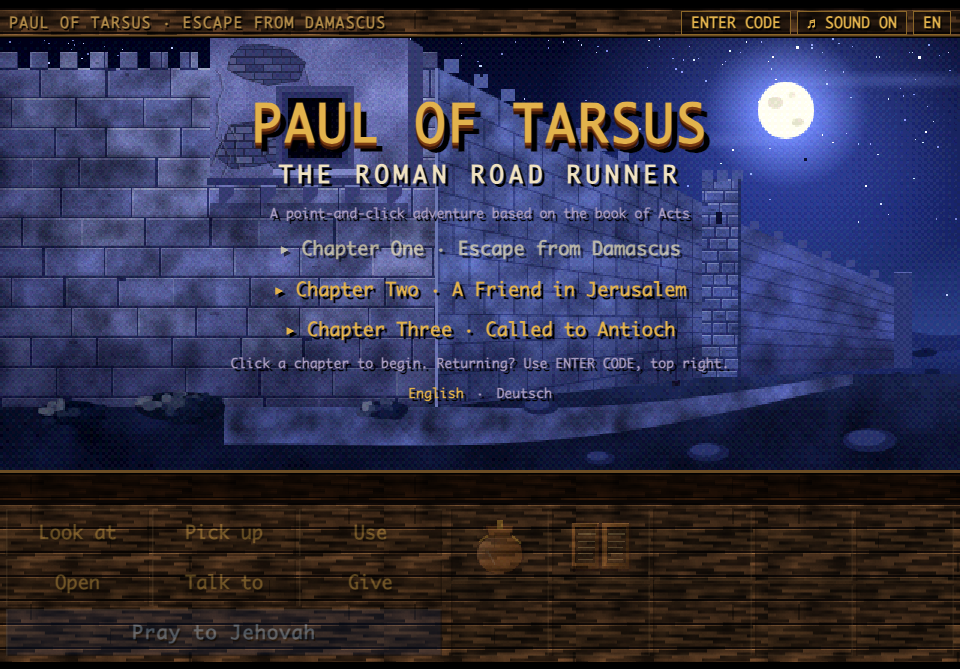
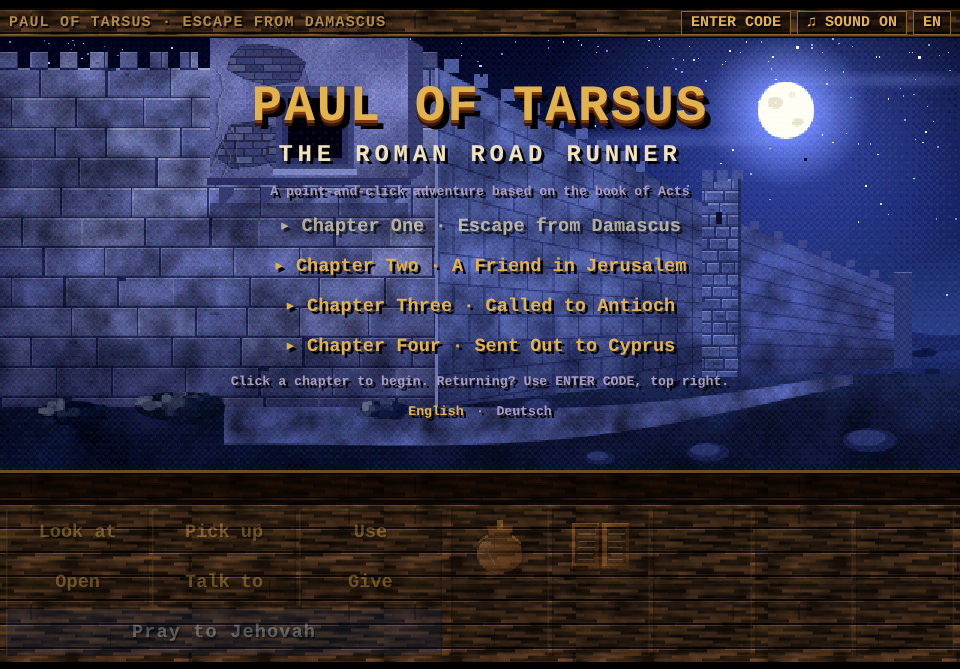
Docs: Chapter Four in the README, with its screenshots
The story and walkthrough of Sent Out to Cyprus, travelling by the map,
the score, what the chapter invents where Acts is silent, and how a hub
chapter is declared. The title screenshot now lists four chapters.

Claude-Session: https://claude.ai/code/session_01K3mgJsrhzNVmrifV5NA6U3

diff --git a/README.md b/README.md
@@ -2,7 +2,7 @@
 
 A browser point-and-click adventure in the style of early-1990s verb-and-inventory adventure games. You play Saul of Tarsus, later known as the apostle Paul, a tentmaker who gets out of tight spots with his trade, his brothers and prayer rather than with force.
 
-There are three chapters so far, in English and German. The game is a small engine in `index.html` plus one level file per chapter in `levels/`, loaded only when that chapter is played. There are no image or audio files: every backdrop, character and icon is painted in code on a canvas, and all music, ambience and sound effects are synthesized with the Web Audio API.
+There are four chapters so far, in English and German. The game is a small engine in `index.html` plus one level file per chapter in `levels/`, loaded only when that chapter is played. There are no image or audio files: every backdrop, character and icon is painted in code on a canvas, and all music, ambience and sound effects are synthesized with the Web Audio API.
 
 ![Title screen](docs/screenshots/title.png)
 
@@ -100,6 +100,42 @@ Three more locations and five new characters, with Barnabas back at Paul's side,
 9. Use the pack bags with the donkey.
 </details>
 
+## Chapter Four: Sent Out to Cyprus
+
+Antioch, about 47 C.E. As the prophets and teachers of the congregation are ministering to Jehovah and fasting, the holy spirit says: "Set aside for me Barnabas and Saul for the work to which I have called them." They lay their hands on them and send them off. With John Mark as their attendant, the two go down to Seleucia and sail to Cyprus, where Barnabas was born. At Salamis they proclaim the word of God in the synagogues of the Jews. Then they go through the whole island as far as Paphos, where the proconsul Sergius Paulus, an intelligent man, calls for them, and the sorcerer Bar-Jesus, also called Elymas, tries to turn him away from the faith (Acts 13:1-12; 4:36).
+
+| | |
+|---|---|
+| ![The quay at Seleucia](docs/screenshots/seleucia.png) | ![The crossing to Cyprus](docs/screenshots/voyage.png) |
+| Seleucia: a ship for Cyprus, and no roof for her deck | The crossing, under the roof a tentmaker sewed |
+| ![The synagogue in Salamis](docs/screenshots/synagogue.png) | ![Before the proconsul in Paphos](docs/screenshots/paphos.png) |
+| Salamis: a stranger is welcome to a seat, not to the platform | Paphos: the proconsul asks, and Elymas objects |
+
+Four more locations and seven new characters, and the first chapter in which the travel map is the way from place to place: the gangplank at Seleucia and the west gate of Salamis open it, and a click on a place goes there.
+
+A merchant ship of those days gave its passengers drinking water and nothing else, so Paul sews a shelter for the deck, with a rope in its edge to lash it to the rail. On the quay sits an old disciple of Salamis whom Saul's persecution once drove out of Jerusalem (Acts 8:1-3; 11:19). He has nothing to say to Saul of Tarsus. Barnabas has to speak for his friend first, and then Saul has to say it himself, without an excuse.
+
+On his own island Barnabas is the one who is known. He asks the presiding officer of a synagogue in Salamis for a hearing, and Paul builds his "word of encouragement" in the right order, beginning with what has just been read: the islands keep waiting for his law (Isaiah 42:4). In Paphos, Elymas raises three objections before the proconsul, and each is answered in its own way: one by Barnabas, one by showing Paul's awl, and one from the Scriptures. Then the account takes its course. What happens to Elymas is told as Acts tells it, and it solves no puzzle. From that hearing on the game calls Saul by his Roman name, Paul, as Acts does from chapter 13, verse 9.
+
+| | |
+|---|---|
+| ![Choosing where to travel](docs/screenshots/travel.png) | ![The talk in the synagogue](docs/screenshots/speech.png) |
+| The gangplank opens the map: Salamis lies a day and a night away | A word of encouragement has an order: do not run ahead of the hearers |
+
+<details>
+<summary>Walkthrough (spoilers)</summary>
+
+1. At Seleucia, talk to Kallias, the shipmaster by the gangplank.
+2. Use the knife on the coil of cord beside the mooring post. Use the awl (or the tarred cord) with the goat-hair cloth.
+3. Switch to Barnabas and talk to the old man by the jars. Tell him that you asked the same question once, and then heard Saul out.
+4. As Paul, talk to the old man, Jair, and say plainly what you did.
+5. Walk up the gangplank, and click Salamis on the map.
+6. In Salamis, open the door of the synagogue. Switch to Barnabas and talk to Zadok: let Saul speak after the reading, and test every word by the scroll.
+7. As Paul, talk to Zadok. Build the talk in this order: the islands keep waiting; the promise to David; the savior from David's offspring, raised up; forgiveness of sins.
+8. Leave by the door and then by the west gate, and click Paphos on the map.
+9. In Paphos, switch to Barnabas and talk to the proconsul. As Paul, give the awl to the proconsul to show it. Then answer with Daniel 2:27, 28.
+</details>
+
 ## Look and sound
 
 The backdrops are painted in the manner of early-1990s VGA adventure games: perspective floors, textured plaster and stone, warm light against cool shadow, a foreground layer that slides past the scene as it scrolls, and a final ordered dither. Rooms are painted at twice the classic 320-pixel resolution. Night scenes and interiors are painted in daylight colors and then multiplied by a light map, so a lamp, a brazier or the moon through a window really lights the room; the same light falls on the characters as they walk through it.
@@ -108,7 +144,9 @@ The characters are sprites in the manner of the same era: placed pixel by pixel 
 
 ![The cast](docs/screenshots/cast.png)
 
-Each chapter ends on a travel map of the eastern Mediterranean, painted the same way: coasts, shallows and mountain ranges, cities as dots, and no grid lines. The road travelled so far is shown, and the chapter's own leg draws itself as a dotted line from city to city, to a short sting on frame drum, harp and ney: Damascus to Jerusalem; Jerusalem to Caesarea and by sea to Tarsus; Tarsus to Antioch, where Paul's missionary journeys would begin. The routes never cross. Where the Scriptures do not say which way he went, the line takes a plausible one: by sea east of Cyprus, and by road round the Gulf of Issus.
+Each chapter ends on a travel map of the eastern Mediterranean, painted the same way: coasts, shallows and mountain ranges, cities as dots, and no grid lines. The road travelled so far is shown, and the chapter's own leg draws itself as a dotted line from city to city, to a short sting on frame drum, harp and ney: Damascus to Jerusalem; Jerusalem to Caesarea and by sea to Tarsus; Tarsus to Antioch, where Paul's missionary journeys would begin. The routes never cross. Where the Scriptures do not say which way he went, the line takes a plausible one: by sea east of Cyprus, by road round the Gulf of Issus, and through the south of Cyprus.
+
+Chapter Four draws the first missionary journey on a map of its own: Antioch to Seleucia, by sea to Salamis, and across the island to Paphos. The earlier roads are left off it, because the sea lane from Caesarea to Tarsus runs between Cyprus and Syria, just where the ship from Seleucia has to pass. In that chapter the map is also how you travel.
 
 ![The travel map at the end of Chapter Three](docs/screenshots/map.png)
 
@@ -119,6 +157,7 @@ Each chapter has its own score, and each room its own sounds:
 | Escape from Damascus | Oud, frame drum and ney in D Hijaz; in the watched street only a drone and a heartbeat remain | Crickets, an owl, the soldier's brazier, night wind at the open window |
 | A Friend in Jerusalem | Lyre and ney in A Dorian; at the harbor a harp rocks in threes like the swell | Birds and a distant market, then waves, gulls and creaking timbers |
 | Called to Antioch | A quick lyre figure, walking bass and reed pipe in G Mixolydian, with claps in the busy street | A tentmakers' row, vine leaves in the courtyard, the fountain and the crowd |
+| Sent Out to Cyprus | A harp in E Aeolian that rocks in three, three and two like a hull on a swell, with a ney at sea and a reed pipe in the harbors; before the proconsul only a drone, a slow drum and a few notes of the lyre | Waves, gulls and creaking timbers, a coppersmith's hammer in the market of Salamis, lamps in the synagogue, a brazier in the proconsul's hall |
 
 ## How to play
 
@@ -130,7 +169,8 @@ Each chapter has its own score, and each room its own sounds:
 | Leave a room at once | Double-click an exit to skip the walk to it |
 | Show what can be clicked | Hold `Tab`: everything in the room gets a dot and its name |
 | Combine things | **Use**, then an inventory item, then another item or something in the scene |
-| Play the other man | In Chapter Three, click **⇄ Barnabas** (or **⇄ Paul**) beside the prayer button, or press `C`. Each man has his own inventory and can stand in a different room; the view follows the one you play. **Give** an item to the other when they share a room to hand it over (**Use** on him only shows it). |
+| Play the other man | In Chapters Three and Four, click **⇄ Barnabas** (or **⇄ Paul**) beside the prayer button, or press `C`. Each man has his own inventory, and in Chapter Three he can stand in a different room; the view follows the one you play. **Give** an item to the other when they share a room to hand it over (**Use** on him only shows it). |
+| Travel | In Chapter Four the way out of a town opens the travel map. Click a place to go there; `Esc` or a right-click stays. A place the story has not reached yet, or one that lies behind, says why not. |
 | Read Paul's notes | Click the **wax tablets** in the inventory (their default verb is **Open**): the people he has met, what is still to be done, and the Scriptures for the chapter. Click or press Space to close them. |
 | Show something to someone | **Give** (or **Use**) an item on a person. Everyone has something to say about everything Paul carries, sometimes a clue. Only what someone actually needs changes hands. |
 | Ask about what you have learned | Once Paul learns something (a frayed basket, a torn sail, a famine), it appears as a new question when he talks to people in that chapter |
@@ -164,7 +204,7 @@ The blue button is the hint system. Paul pauses, bows his head and prays for wis
 
 ### Safe-point codes
 
-The top bar always shows a short code for exactly where you are: six characters in Chapter One, and the same with a leading `2-` in Chapter Two. Chapter Three codes are nine characters (`3-XXX-XXX-XXX`), because they also remember which man you are playing, where each of them stands and who carries what; six-character Chapter Three codes from before still work. Write it down, and enter it later with **ENTER CODE** on the title screen (or the code button during play) to return to the same room with the same inventory and progress. Any moment outside a cutscene is a safe point.
+The top bar always shows a short code for exactly where you are: six characters in Chapter One, and the same with a leading `2-` in Chapter Two. Chapter Three and Chapter Four codes are nine characters (`3-XXX-XXX-XXX`, `4-XXX-XXX-XXX`), because they also remember which man you are playing, where each of them stands and who carries what; six-character Chapter Three codes from before still work. Write it down, and enter it later with **ENTER CODE** on the title screen (or the code button during play) to return to the same room with the same inventory and progress. Any moment outside a cutscene is a safe point.
 
 ![Safe-point code](docs/screenshots/code.png)
 
@@ -172,7 +212,9 @@ The top bar always shows a short code for exactly where you are: six characters 
 
 The game follows the scriptural understanding of Jehovah's Witnesses and the wording of the New World Translation of the Holy Scriptures (Study Edition); the German version quotes the German edition, the *Neue-Welt-Übersetzung der Heiligen Schrift (Studienausgabe)*. Historical details are checked against jw.org and wol.jw.org. Paul is shown as a courageous, observant minister who relies on practical wisdom, cooperation with fellow believers and trust in Jehovah. There are no halos, crosses or mystical effects, and no puzzle is solved by a miracle or by violence.
 
-The events themselves are from the Scriptures. All dialogue is imaginative dramatization, including the words given to Barnabas, Cephas, James, Agabus and Lucius, and so are the supporting characters: Eliab, Naomi, Jesse, the merchant Zakkai and the guard in Chapter One; Mattan, the captain, the fisherman, the doorkeeper and the two Greek-speaking Jews Dositheus and Ariston in Chapter Two; Kleon, Xanthe and Theron in Chapter Three. The Scriptures say nothing of how the relief was packed or counted: those details are invented as well.
+The events themselves are from the Scriptures. All dialogue is imaginative dramatization, including the words given to Barnabas, Cephas, James, Agabus, Lucius, John Mark, Sergius Paulus and Bar-Jesus, and so are the supporting characters: Eliab, Naomi, Jesse, the merchant Zakkai and the guard in Chapter One; Mattan, the captain, the fisherman, the doorkeeper and the two Greek-speaking Jews Dositheus and Ariston in Chapter Two; Kleon, Xanthe and Theron in Chapter Three; the shipmaster Kallias, the old disciple Jair, the presiding officer Zadok and the merchant Philon in Chapter Four. The Scriptures say nothing of how the relief was packed or counted: those details are invented as well.
+
+Chapter Four fills several silences of the account in the same way. Acts does not say where on Cyprus Barnabas was born, what was said in the synagogues of Salamis or how the people there responded, or what Elymas said to turn the proconsul away. The chapter places Barnabas's boyhood in Salamis, keeps the response there small, and gives Elymas three objections of its own. The shelter on the ship's deck rests on what is known of sea travel then: passengers on a merchant ship slept on deck and brought their own food and bedding. The ship has no figurehead, because those commonly showed a god.
 
 This is an independent, non-commercial fan project. It is not produced, endorsed or reviewed by Jehovah's Witnesses or the Watch Tower Bible and Tract Society.
 
@@ -183,13 +225,14 @@ index.html            the engine: layout, paint toolkit, figures, audio sequence
 levels/chapter1.js    Escape from Damascus
 levels/chapter2.js    A Friend in Jerusalem
 levels/chapter3.js    Called to Antioch
+levels/chapter4.js    Sent Out to Cyprus
 shared/tablets.js     Paul's wax tablets, used by every chapter
 shared/map.js         the travel map: the journeys between chapters, and travel for a hub chapter
 lang/de/              the German text: main.js for the engine and shared files, chapterN.js for each chapter
 tools/                headless playtest, and the translation check (strings.mjs)
 ```
 
-A level file holds everything that belongs to one chapter and nothing else does: its music and ambience, its artwork, its cast and items, its rooms with their hotspots and dialog, its cutscenes and its prayer hints. `index.html` keeps only a three-line manifest (`CHAP`: name, file, code salt), and fetches a level with a script tag the first time it is needed, so the game still runs when opened straight from disk. To add a chapter, write `levels/chapter4.js` and add its line to the manifest.
+A level file holds everything that belongs to one chapter and nothing else does: its music and ambience, its artwork, its cast and items, its rooms with their hotspots and dialog, its cutscenes and its prayer hints. `index.html` keeps only a manifest with one line per chapter (`CHAP`: name, file, code salt), and fetches a level with a script tag the first time it is needed, so the game still runs when opened straight from disk. To add a chapter, write `levels/chapter5.js` and add its line to the manifest.
 
 Inside a level file:
 
@@ -216,28 +259,31 @@ TEXTS('de',1,{
 
 A line with no entry is shown in English. `node tools/strings.mjs --check` (which the playtest runs first) finds the English text in the code and reports every line missing from a language, every entry whose English line has changed or gone, a `{slot}` added in a translation, English book names in a reference, and pronunciation marks copied from the Bible text. Then the playtest plays the whole game in each language and fails on any line that was shown untranslated, and on any text that overflows its box. To add a language: add its line to `LANGS` in `index.html` (`fr:{native:'Français',dir:'lang/fr/'}`), copy `lang/de` to `lang/fr` and replace the translations, quoting every verse from that language's Study Edition. Nothing else in the engine changes.
 
-**The travel map.** `shared/map.js` holds the geography: `PLACES` (each city's longitude and latitude, and the side its name goes on), the coasts, islands, lakes and ranges, and `VIA`, waypoints for legs that should not run straight. A chapter declares the way out of it as `route:[['jerusalem','caesarea','new'],['caesarea','tarsus','new sea']]`, with the earlier legs first and `new` on the ones to draw now, and calls `await journey()` in its ending. Check a new leg against the others: the playtest fails if two routes cross.
+**The travel map.** `shared/map.js` holds the geography: `PLACES` (each city's longitude and latitude, and the side its name goes on), the coasts, islands, lakes and ranges, and `VIA`, waypoints for legs that should not run straight. A chapter declares the way out of it as `route:[['jerusalem','caesarea','new'],['caesarea','tarsus','new sea']]`, with the earlier legs first and `new` on the ones to draw now, and calls `await journey()` in its ending. Check a new leg against the others: the playtest fails if two routes cross. A name sits on the side its place gives it (`lab`, and `dy` to raise or lower it). Where that side would lie across one of a chapter's routes, the chapter says where the name goes on its own map: `labels:{salamis:{lab:'r',dy:4.2}}`.
 
-**A hub chapter** (not written yet; Chapter Four could be one) is a chapter whose rooms are places on the map that the player travels between by clicking. It declares them in its definition, by their ids in `shared/map.js`, each with the room it leads to and where Paul stands on arrival:
+**A hub chapter** (Chapter Four is the first) is a chapter whose rooms are places on the map that the player travels between by clicking. It declares them in its definition, by their ids in `shared/map.js`, each with the room it leads to and where Paul stands on arrival:
 
 ```js
-rooms:['jerusalem','temple','caesarea','harbor','antioch','court'],
-places:{jerusalem:{room:'jerusalem',x:40,y:120,dir:1},caesarea:{room:'harbor',x:40,y:122,dir:1},antioch:{room:'court',x:146,y:128,dir:-1}},
+rooms:['seleucia','salamis','synagogue','paphos'],
+places:{
+  seleucia:{room:'seleucia',x:300,y:122,dir:-1,if:()=>false,no:'We were sent out, not back.'},
+  salamis:{room:'salamis',x:150,y:122,dir:1,if:()=>G.room==='seleucia'},
+  paphos:{room:'paphos',x:150,y:124,dir:1,if:()=>G.room==='salamis'&&F.spoke,no:'Paphos lies at the far end of the island.'}},
 ```
 
-and gives the exits that lead out of town `exit:travel`. `travel()` opens the map with those places as dots; hovering lights a name, a click draws the way there and enters that room, and Esc or a right-click stays. A place that is not in `PLACES` yet is added there with its coordinates. A hub chapter will have more than three rooms, so it gets wide codes automatically; if it may grow, it reserves room with `codeBits` from the start.
+and gives the exits that lead out of town `exit:travel`, or an exit of its own that checks what the story still needs and then calls `travel()`. `travel()` opens the map with those places as dots; hovering lights a name, a click draws the way there and enters that room, and Esc or a right-click stays. A place can say when the way to it is open (`if`) and what the character says when it is not (`no`: a line, a list of lines or a script), and `hide` keeps it off the map. The chapter's `way()` lists the legs already travelled, which the map shows, and its `arrive(to, from)` runs after the journey and before the room appears: it brings the rest of the party along, and may tell of the journey, as the crossing to Salamis is told. A place that is not in `PLACES` yet is added there with its coordinates. A hub chapter will have more than three rooms, so it gets wide codes automatically; if it may grow, it reserves room with `codeBits` from the start.
 
 **Safe-point codes.** A chapter whose state fits in 19 flags and three rooms, with Paul alone, gets the original six-character codes. Any other chapter (a party, more flags, more rooms) gets wide codes of 9, 12 or more characters, always a multiple of three, so the decoder tells the two apart by length. A wide code packs, from the lowest bit: the flags, each member's room, the member being played, and for each item in `share` the member who carries it; then it is masked and checked with 9 bits salted by the chapter, like the short codes. Every field has a fixed width, so a chapter can grow without breaking its codes: room for 19 flags and two bits per room (four rooms), unless the chapter needs more or reserves more with `codeBits:{flags, rooms, share}`. Never reorder a chapter's `flags`, `rooms` or `share`; only append, within those widths.
 
 Edit a file and reload.
 
-`tools/playtest.mjs` plays all three chapters through the real interface in headless Chrome and checks each puzzle step, the save codes and the endings. It needs Node 22 or newer and Google Chrome. Each run asks Chrome for a free debugging port, so several runs can go side by side.
+`tools/playtest.mjs` plays all four chapters through the real interface in headless Chrome and checks each puzzle step, the save codes and the endings. It needs Node 22 or newer and Google Chrome. Each run asks Chrome for a free debugging port, so several runs can go side by side.
 
 ```bash
 node tools/playtest.mjs
 ```
 
-It plays the game once in English and once more in every other language under `lang/`. Pass stop names to save screenshots to `tools/out/` instead, for example `node tools/playtest.mjs title workshop harbor`; put a language in front of a stop to take it in that language: `node tools/playtest.mjs de:title de:tablets`. The stop names are defined in `tools/playtest-harness.html`; Chapter Three stops such as `tarsus`, `court` and `antioch` start that chapter directly.
+It plays the game once in English and once more in every other language under `lang/`. Pass stop names to save screenshots to `tools/out/` instead, for example `node tools/playtest.mjs title workshop harbor`; put a language in front of a stop to take it in that language: `node tools/playtest.mjs de:title de:tablets`. The stop names are defined in `tools/playtest-harness.html`; Chapter Three stops such as `tarsus`, `court` and `antioch` start that chapter directly, and so do Chapter Four stops such as `seleucia`, `salamis` and `paphos`.
 
 ## Contributing
 
